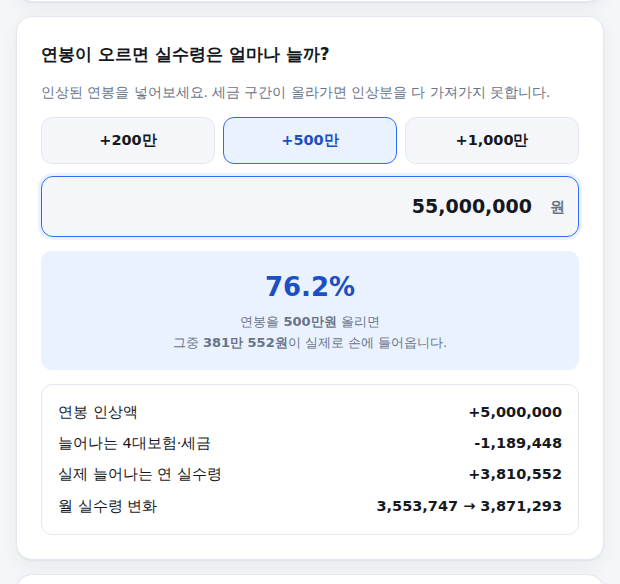
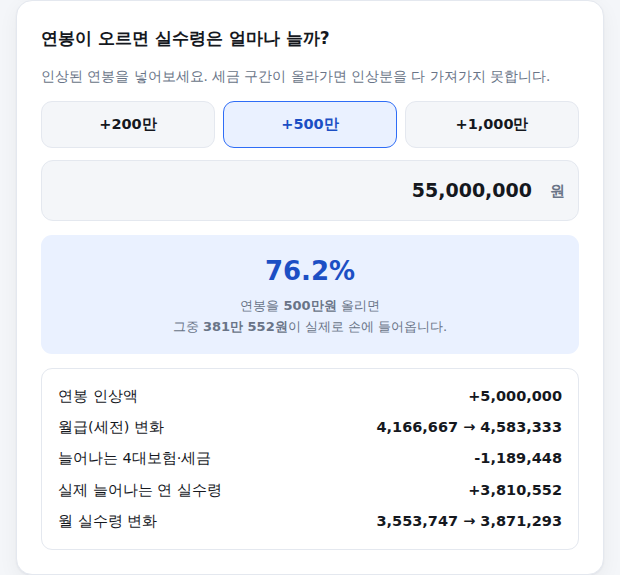
연봉 인상 시뮬레이션에 월급(세전) 변화 추가
- 인상 전/후 연봉만 보여주던 표에 월 기준 세전 급여 변화(예: 4,166,667원 → 4,583,333원)를 추가
- 실수령액 변화뿐 아니라 오르는 월급 자체도 한눈에 비교 가능
- 이용법 4단계 스크린샷 재촬영 (620x575)

Claude-Session: https://claude.ai/code/session_01FHtNtifBFhcLFReKxE7fCr

diff --git a/salary-tax.js b/salary-tax.js
@@ -42,6 +42,7 @@ var el = {
   raisePct:  $('raise-pct'),
   raiseSub:  $('raise-sub'),
   rGross: $('r-gross'),
+  rMonthGross: $('r-month-gross'),
   rCost:  $('r-cost'),
   rNet:   $('r-net'),
   rMonth: $('r-month')
@@ -214,6 +215,7 @@ function renderRaise(salary, family, meal, before) {
     el.raisePct.textContent = '-';
     el.raiseSub.textContent = '현재 연봉보다 높은 금액을 넣어보세요.';
     el.rGross.textContent = '-';
+    el.rMonthGross.textContent = '-';
     el.rCost.textContent = '-';
     el.rNet.textContent = '-';
     el.rMonth.textContent = '-';
@@ -230,6 +232,7 @@ function renderRaise(salary, family, meal, before) {
     '그중 <strong>' + readable(netGain) + '</strong>이 실제로 손에 들어옵니다.';
 
   el.rGross.textContent = '+' + comma(raise);
+  el.rMonthGross.textContent = comma(before.grossMonthly) + ' → ' + comma(afterCalc.grossMonthly);
   el.rCost.textContent  = '-' + comma(cost);
   el.rNet.textContent   = '+' + comma(netGain);
   el.rMonth.textContent = comma(before.netMonthly) + ' → ' + comma(afterCalc.netMonthly);

diff --git a/salary-guide.html b/salary-guide.html
@@ -62,7 +62,7 @@
       <li class="step">
         <p class="step-title">연봉이 오르면 실수령은 얼마나 늘까</p>
         <p>인상 후 연봉을 넣으면(+200만/+500만/+1,000만 버튼도 있습니다), 인상분 중 <strong>실제로 손에 들어오는 비율</strong>이 큰 글씨로 나타납니다. 세금 구간이 올라갈수록 이 비율은 낮아집니다 — "연봉 500만원 올랐는데 왜 이만큼밖에 안 늘지?"에 대한 답입니다.</p>
-        <img class="step-shot" src="salary-guide-4-raise.png" alt="연봉 인상 시뮬레이션 입력과 결과 화면" loading="lazy" width="620" height="584">
+        <img class="step-shot" src="salary-guide-4-raise.png" alt="연봉 인상 시뮬레이션 입력과 결과 화면" loading="lazy" width="620" height="575">
         <p class="step-caption">연봉 인상 시뮬레이션 화면</p>
       </li>
     </ol>

diff --git a/salary-tax.html b/salary-tax.html
@@ -139,6 +139,7 @@
 
       <div class="raise-box" style="background:var(--card); border:1px solid var(--line);">
         <div class="raise-line"><span>연봉 인상액</span><span class="v" id="r-gross">-</span></div>
+        <div class="raise-line"><span>월급(세전) 변화</span><span class="v" id="r-month-gross">-</span></div>
         <div class="raise-line"><span>늘어나는 4대보험·세금</span><span class="v" id="r-cost">-</span></div>
         <div class="raise-line"><span>실제 늘어나는 연 실수령</span><span class="v" id="r-net">-</span></div>
         <div class="raise-line"><span>월 실수령 변화</span><span class="v" id="r-month">-</span></div>
